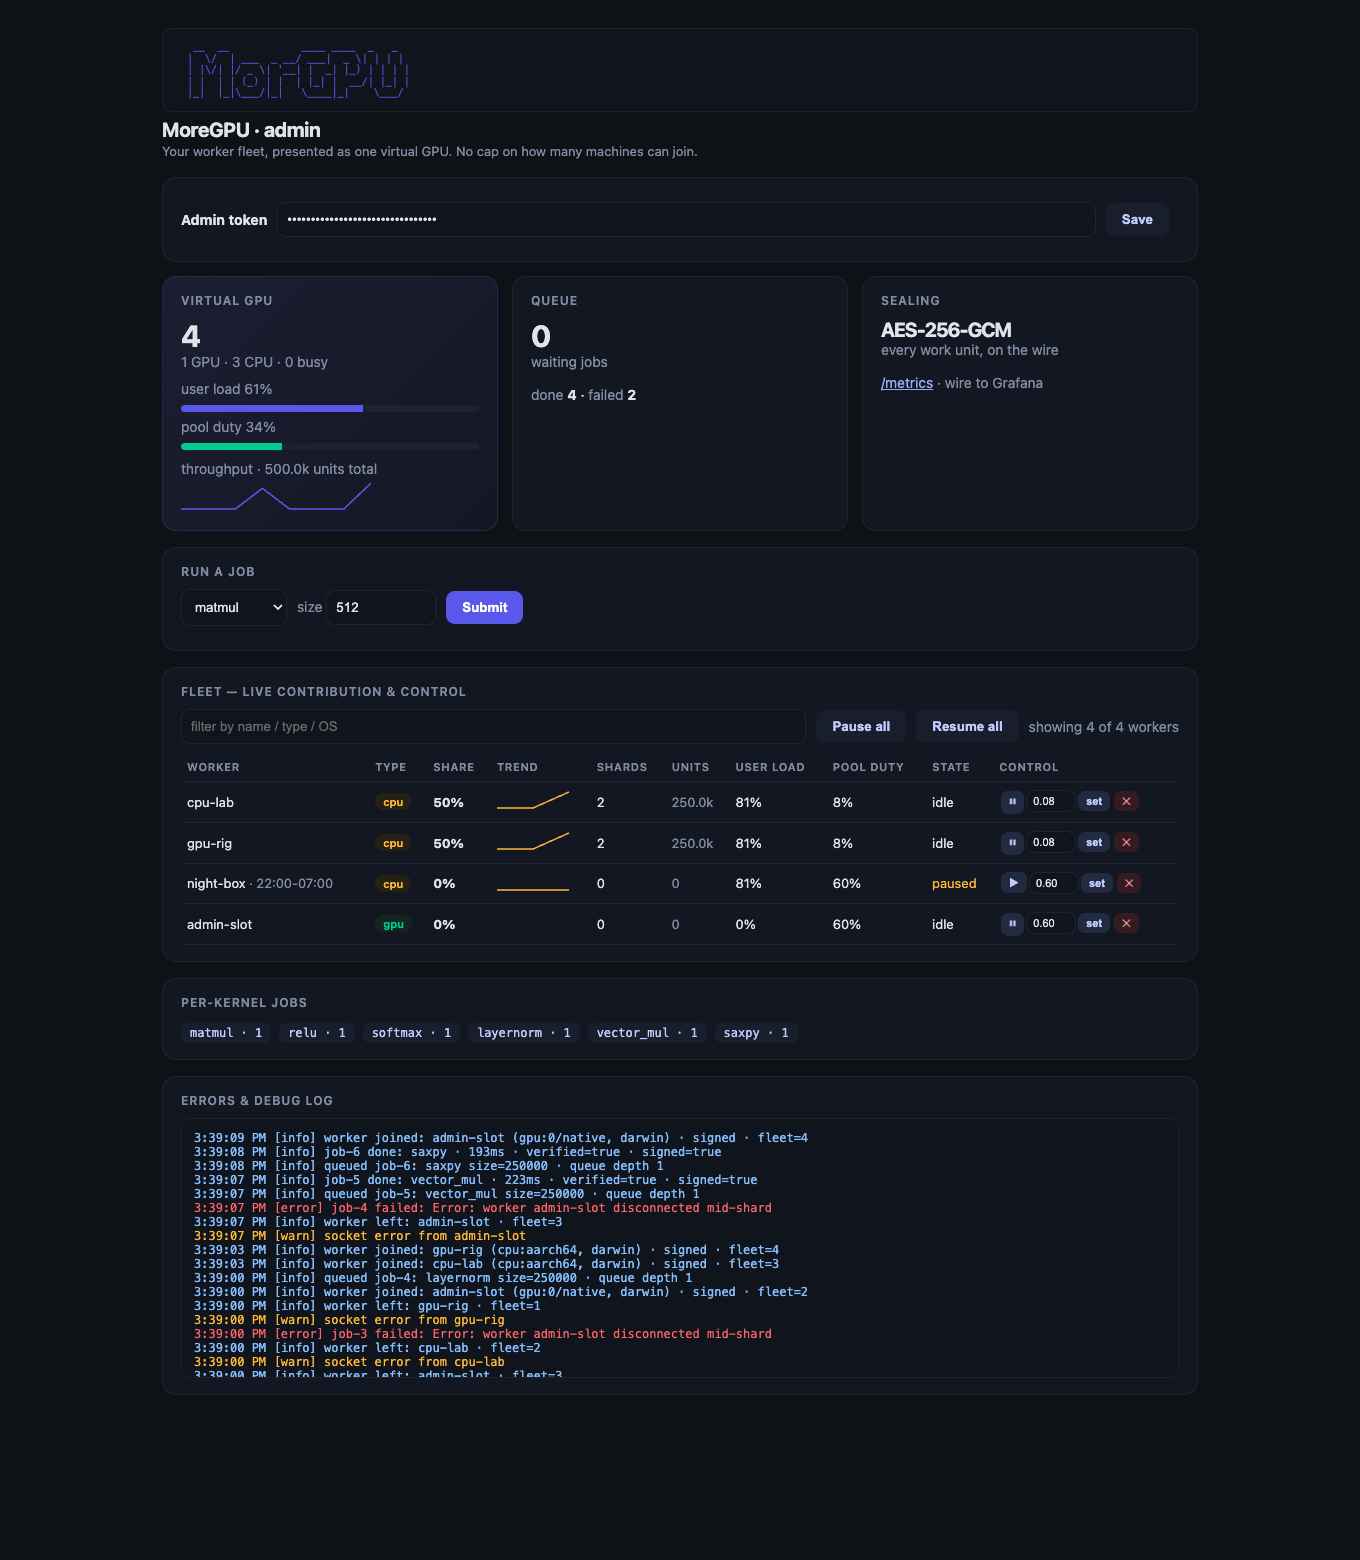
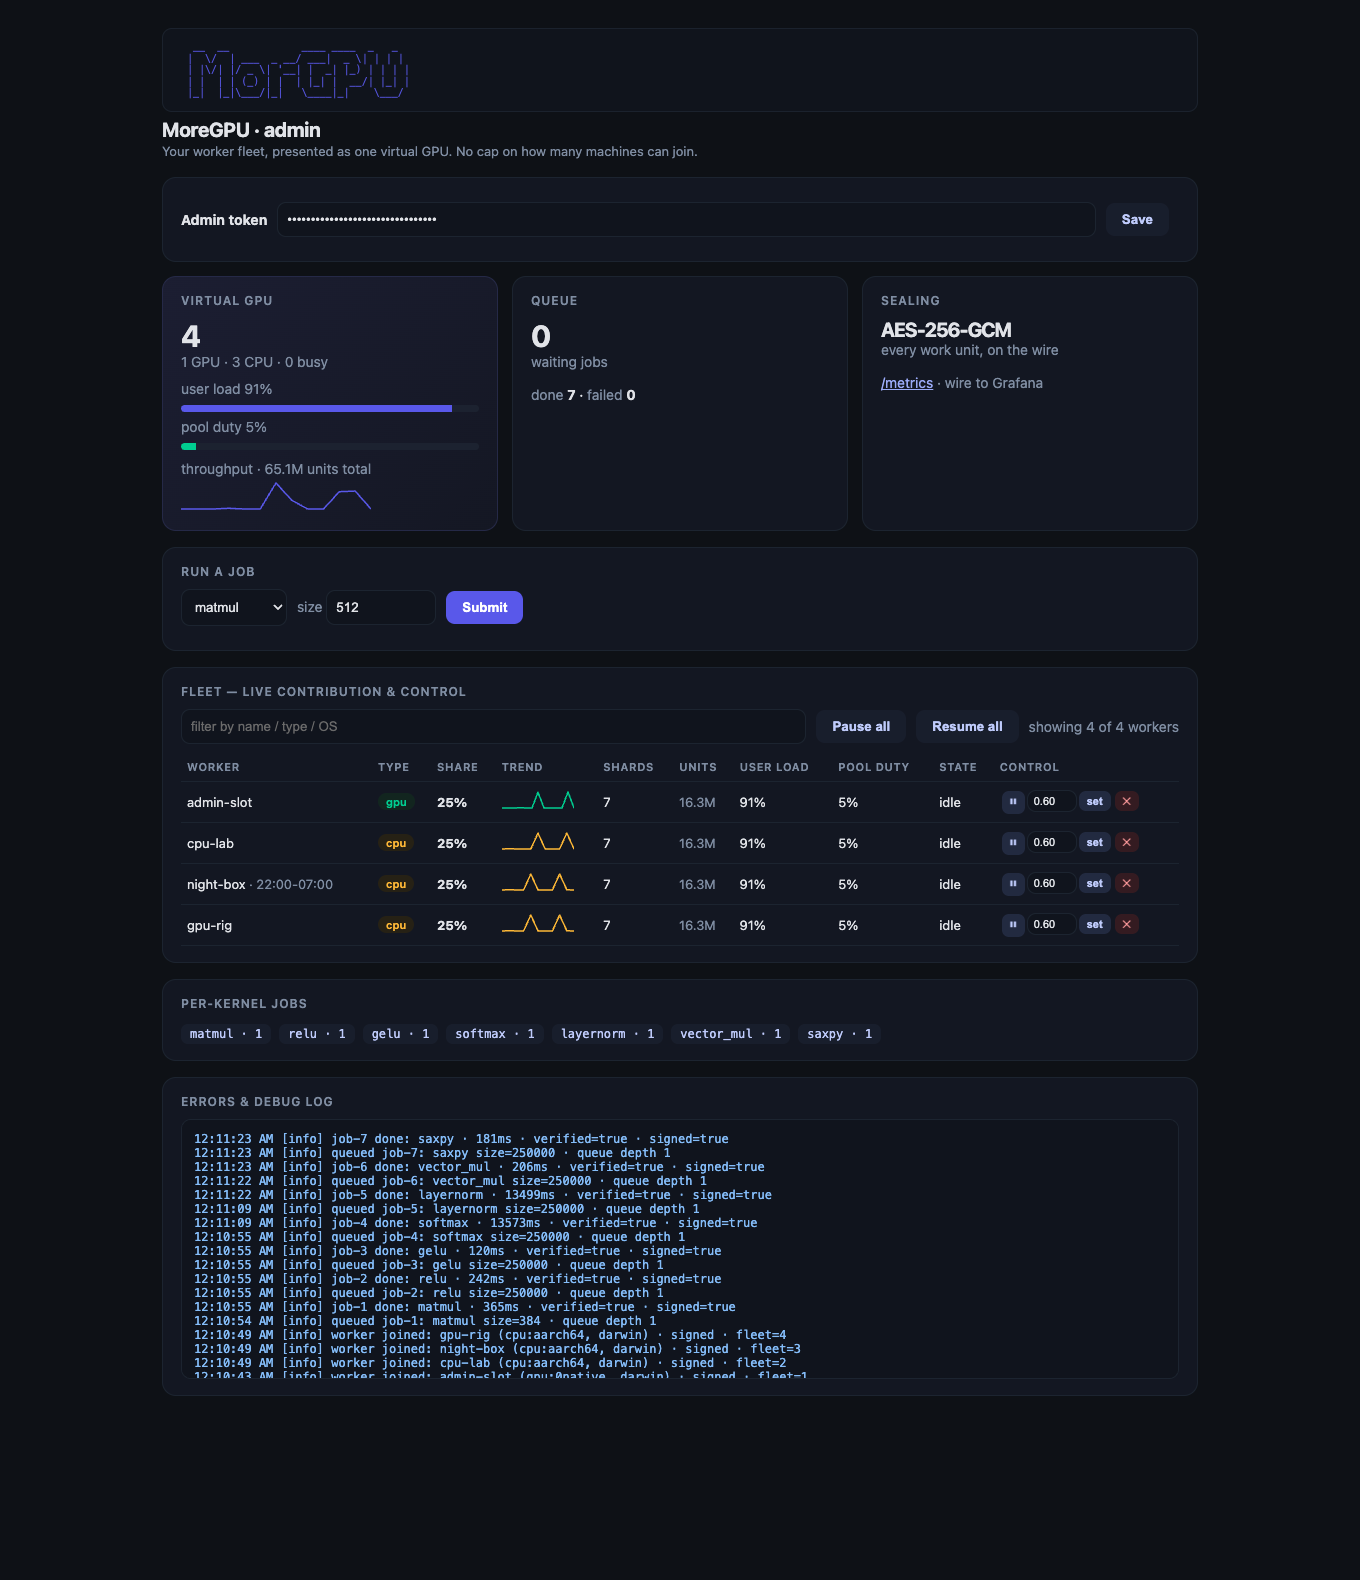
docs: LLM capability is real now — update matrix, Pages, CHANGELOG, refresh screenshots
'Full LLM inference ❌' → 'Small LLM (real GPT-2) 🟡' (llm_infer.py runs it, exact match) +
'Big/fast LLM ❌' (needs native fp16/CUDA). Same in GitHub Pages. CHANGELOG documents the LLM
milestone + GPU GELU NaN fix. Re-captured the macOS-framed admin dashboard (current UI).

diff --git a/docs/index.html b/docs/index.html
@@ -141,9 +141,10 @@ Every pool mints its <b>own</b> secrets on first run and writes them to <code>.m
 <tr><td>Elementwise + activations</td><td class="y">✅</td><td>add / mul / scale / saxpy / relu / <b>gelu</b> — WGSL kernels that run <b>on the GPU</b> on a GPU worker (CPU otherwise). Memory-bound, so the GPU mainly relieves the CPU.</td></tr>
 <tr><td>Softmax / LayerNorm</td><td class="y">✅</td><td>Row-wise WGSL reductions <b>on the GPU</b> on a GPU worker (CPU otherwise), match a CPU reference to ~1e-8.</td></tr>
 <tr><td>Scaled dot-product attention (1 head)</td><td class="p">🧩</td><td><code>matmul(Q,Kᵀ)→scale→softmax→matmul(·,V)</code> — verified. Not flash-attention; no KV cache.</td></tr>
-<tr><td>Transformer block / small MLP inference</td><td class="p">🧩</td><td>Compose LN → matmuls → attention → FFN from the SDK. Weights per-request, no residency.</td></tr>
+<tr><td>Transformer block / small MLP inference</td><td class="p">🧩</td><td>Compose LN → matmuls → attention → FFN from the SDK; split a model across workers with weight residency.</td></tr>
+<tr><td>Small LLM (real GPT-2 124M)</td><td class="pa">🟡</td><td><b>A real GPT-2 runs on the pool</b> (<code>examples/llm_infer.py</code>) and matches Hugging Face token-for-token. Slow — activations round-trip per layer (~seconds/token).</td></tr>
 <tr><td>Large / out-of-core matmul</td><td class="pa">🟡</td><td>Sharded across workers + pooled — bounded by WGSL cores + WAN, not NVLink.</td></tr>
-<tr><td>Full LLM inference (tokenizer, KV cache)</td><td class="n">❌</td><td>No model loader / tokenizer / sampling / KV-cache; no fp16/int8.</td></tr>
+<tr><td>Big / fast LLM inference (7B+, low latency)</td><td class="n">❌</td><td>fp32, no fp16/int8/tensor cores, no KV cache, activations cross the network — needs a native fp16/CUDA worker (roadmap).</td></tr>
 <tr><td>Training (autograd / backprop)</td><td class="n">❌</td><td>No autograd or optimizer kernels. Not a training platform.</td></tr>
 <tr><td>CUDA/PTX · Stable Diffusion · NVENC · tensor cores</td><td class="n">❌</td><td>WGSL backend, compute-only, fp32 — these paths don't exist.</td></tr>
 </table>

diff --git a/README.md b/README.md
@@ -29,7 +29,8 @@ MoreGPU is an honest, **verified fp32** linear-algebra service — not a CUDA re
 | Reductions (sum/mean/dot/norm) | 🧩 | Via GEMM tricks (`dot = (1×K)·(K×1)`, etc.); `pool.sum/mean/dot/norm` SDK helpers. Convenience, not throughput — each runs on one worker/one thread. |
 | Large / out-of-core matmul | 🟡 | Sharded across workers + pooled — bounded by WGSL cores + WAN, not NVLink. |
 | Monte-Carlo / RNG-heavy sims | 🟡 | You supply random inputs (host-side RNG); the pool does the arithmetic. |
-| Full LLM inference (checkpoints, tokenizer, KV cache) | ❌ | The *math* composes (see [`examples/tiny_llm.py`](examples/tiny_llm.py)), but a real LLM is impractical: **weights are re-sent per request** (a 7B model is ~26 GB of fp32, re-uploaded each matmul), fp32/no-KV-cache, and ~90k sealed round-trips per 200 tokens. No loader/tokenizer/sampling. Needs a native CUDA worker. |
+| Small LLM inference (e.g. GPT-2 124M) | 🟡 | **A real GPT-2 runs on the pool** — [`examples/llm_infer.py`](examples/llm_infer.py) loads the checkpoint, pins the 12 layers resident, runs the full forward pass, and matches Hugging Face **exactly** (identical greedy generation). Uses the real tokenizer. Slow: activations round-trip per layer (~seconds/token on localhost). |
+| Big / fast LLM inference (7B+, low latency) | ❌ | Impractical here: fp32 (no fp16/int8/tensor cores), no KV cache, and every layer's activations cross the network — ~seconds/token, worse over a WAN. Needs a native fp16/CUDA worker (roadmap). |
 | Training (autograd / backprop / optimizer) | ❌ | No autograd or gradient/optimizer kernels. Not a training platform. |
 | Conv2d / CNNs | 🧩 | im2col on the host, then pooled matmul — runnable, CPU-checked demo in [`examples/conv2d_im2col.py`](examples/conv2d_im2col.py). Off-GPU unfold. |
 | CUDA/PTX kernels · Stable Diffusion · rendering (OptiX) · NVENC · fp16/int8 tensor cores | ❌ | WGSL backend, compute-only, fp32 — none of these paths exist. |
@@ -37,7 +38,7 @@ MoreGPU is an honest, **verified fp32** linear-algebra service — not a CUDA re
 **In one line:** every kernel it ships — tiled matmul, elementwise/activations, softmax and layernorm — runs **on your real GPU** (WGSL → Metal/Vulkan/D3D12) on a GPU worker, with verified fp32 results, and you **compose** them into attention, transformer blocks, and small classifiers. It is not a drop-in for training, big-model inference, tensor-core speed, CUDA kernels, or graphics.
 
 > [!NOTE]
-> **Why not CUDA / fp16 / full LLMs?** MoreGPU's backend is **WebGPU (WGSL)** — the portable path that runs the same kernels on NVIDIA, AMD, Apple, and Intel GPUs. WebGPU is fp32 compute-only: no tensor cores, no fp16/int8, no CUDA/PTX, and no autograd. Full-model inference and training would need a **separate native CUDA/cuBLAS worker type** (NVIDIA-only, fp16 + tensor cores + a real autograd/KV-cache stack) — a large, honest roadmap item, **not built**. What ships today is a correct, verified fp32 primitive set you can compose; it will not masquerade as a CUDA/training platform it isn't.
+> **Can it run LLMs?** Yes — a *small* one. `examples/llm_infer.py` runs a real **GPT-2** on the pool and matches Hugging Face token-for-token. It's **slow** (fp32, and every layer's activations round-trip over the network — seconds/token), so big/low-latency models stay impractical. MoreGPU's backend is **WebGPU (WGSL)**: portable across NVIDIA/AMD/Apple/Intel, but fp32 compute-only — no tensor cores, no fp16/int8, no CUDA/PTX, no autograd. Real serving speed and big models would need a **separate native fp16/CUDA worker type** (roadmap, not built). What ships is a correct, verified fp32 primitive set you can compose into real models at small scale — it won't masquerade as a fast CUDA serving stack it isn't.
 
 > [!NOTE]
 > **What runs on the GPU:** on a GPU worker, **all** kernels execute on-device (WGSL → Metal/Vulkan/D3D12) — tiled matmul, elementwise/activations, and softmax/layernorm reductions. A CPU-only worker runs the identical kernels on the CPU. Either way the coordinator cross-checks the pooled result against a CPU reference, so every path returns the same verified fp32 output.

diff --git a/CHANGELOG.md b/CHANGELOG.md
@@ -7,6 +7,25 @@ and this project adheres to [Semantic Versioning](https://semver.org/spec/v2.0.0
 
 ## [Unreleased]
 
+### Added
+
+- **Real LLM inference on the pool** — `examples/llm_infer.py` loads a real **GPT-2 (124M)**,
+  pins the 12 transformer layers' weights resident across the workers, and runs the full
+  forward pass on the pool (via weight residency + the shipped primitives), using the real
+  Hugging Face tokenizer. Validated: next-token logits match transformers to 0.000 and greedy
+  generation is a **token-for-token exact match**. Slow (fp32, activations round-trip per
+  layer) — a proof of capability, not a fast serving stack.
+- `examples/tiny_llm.py` (toy transformer forward + the honest scaling wall).
+
+### Fixed
+
+- **GPU GELU NaN on large activations** — the WGSL GELU's `tanh` argument grows as x³; some GPU
+  `tanh` implementations (Metal) overflow to NaN on huge inputs. The argument is now clamped
+  (tanh saturates to ±1 well before, so it's exact). Only real-model activation magnitudes
+  triggered it; isolated small-value tests missed it.
+- Resident-weight uploads are capped (`MOREGPU_MAX_WEIGHT_ELEMENTS`, default 16M) so an
+  oversized weight returns 413 instead of OOM-crashing the coordinator.
+
 ## [0.4.0] - 2026-07-25
 
 ### Added
